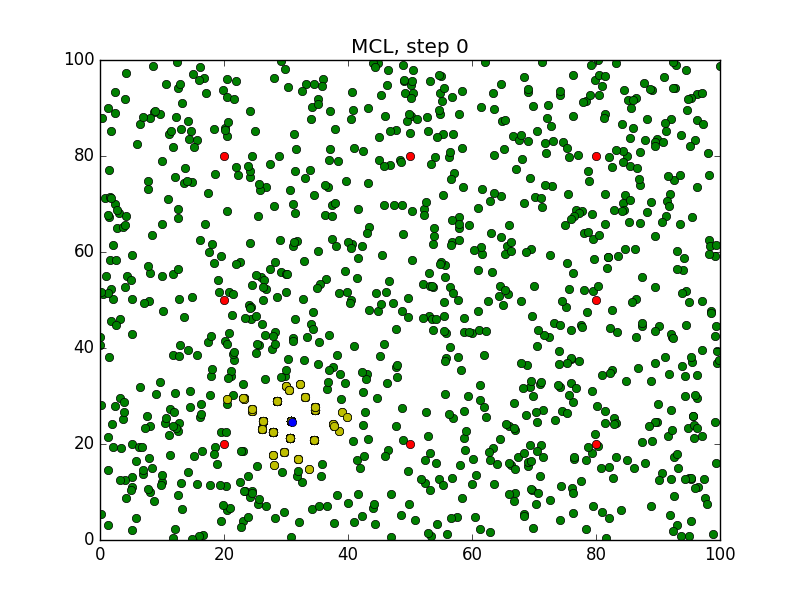
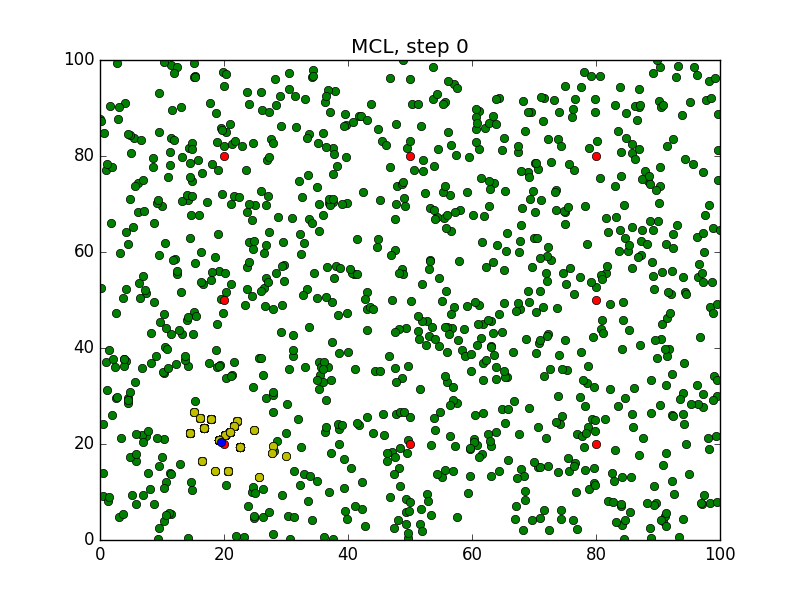
Updated main.cpp & ran program app
Added code to graph the position of the robot and the particles at each step & ran the program to generate 50 images.

Changed region(s): [[0.125, 0.09, 0.9062, 0.9], [0.5938, 0.09, 0.625, 0.12], [0.125, 0.09, 0.1562, 0.12]]

diff --git a/MCL Graphing - Lab_Quiz/RoboND-MCL-Lab/main.cpp b/MCL Graphing - Lab_Quiz/RoboND-MCL-Lab/main.cpp
@@ -296,6 +296,8 @@ int main()
         //####   DON'T MODIFY ANYTHING ABOVE HERE! ENTER CODE BELOW ####
 
         //TODO: Graph the position of the robot and the particles at each step
+      	visualization(n, myrobot, t, p2, p3);
+
 
     } //End of Steps loop
 
